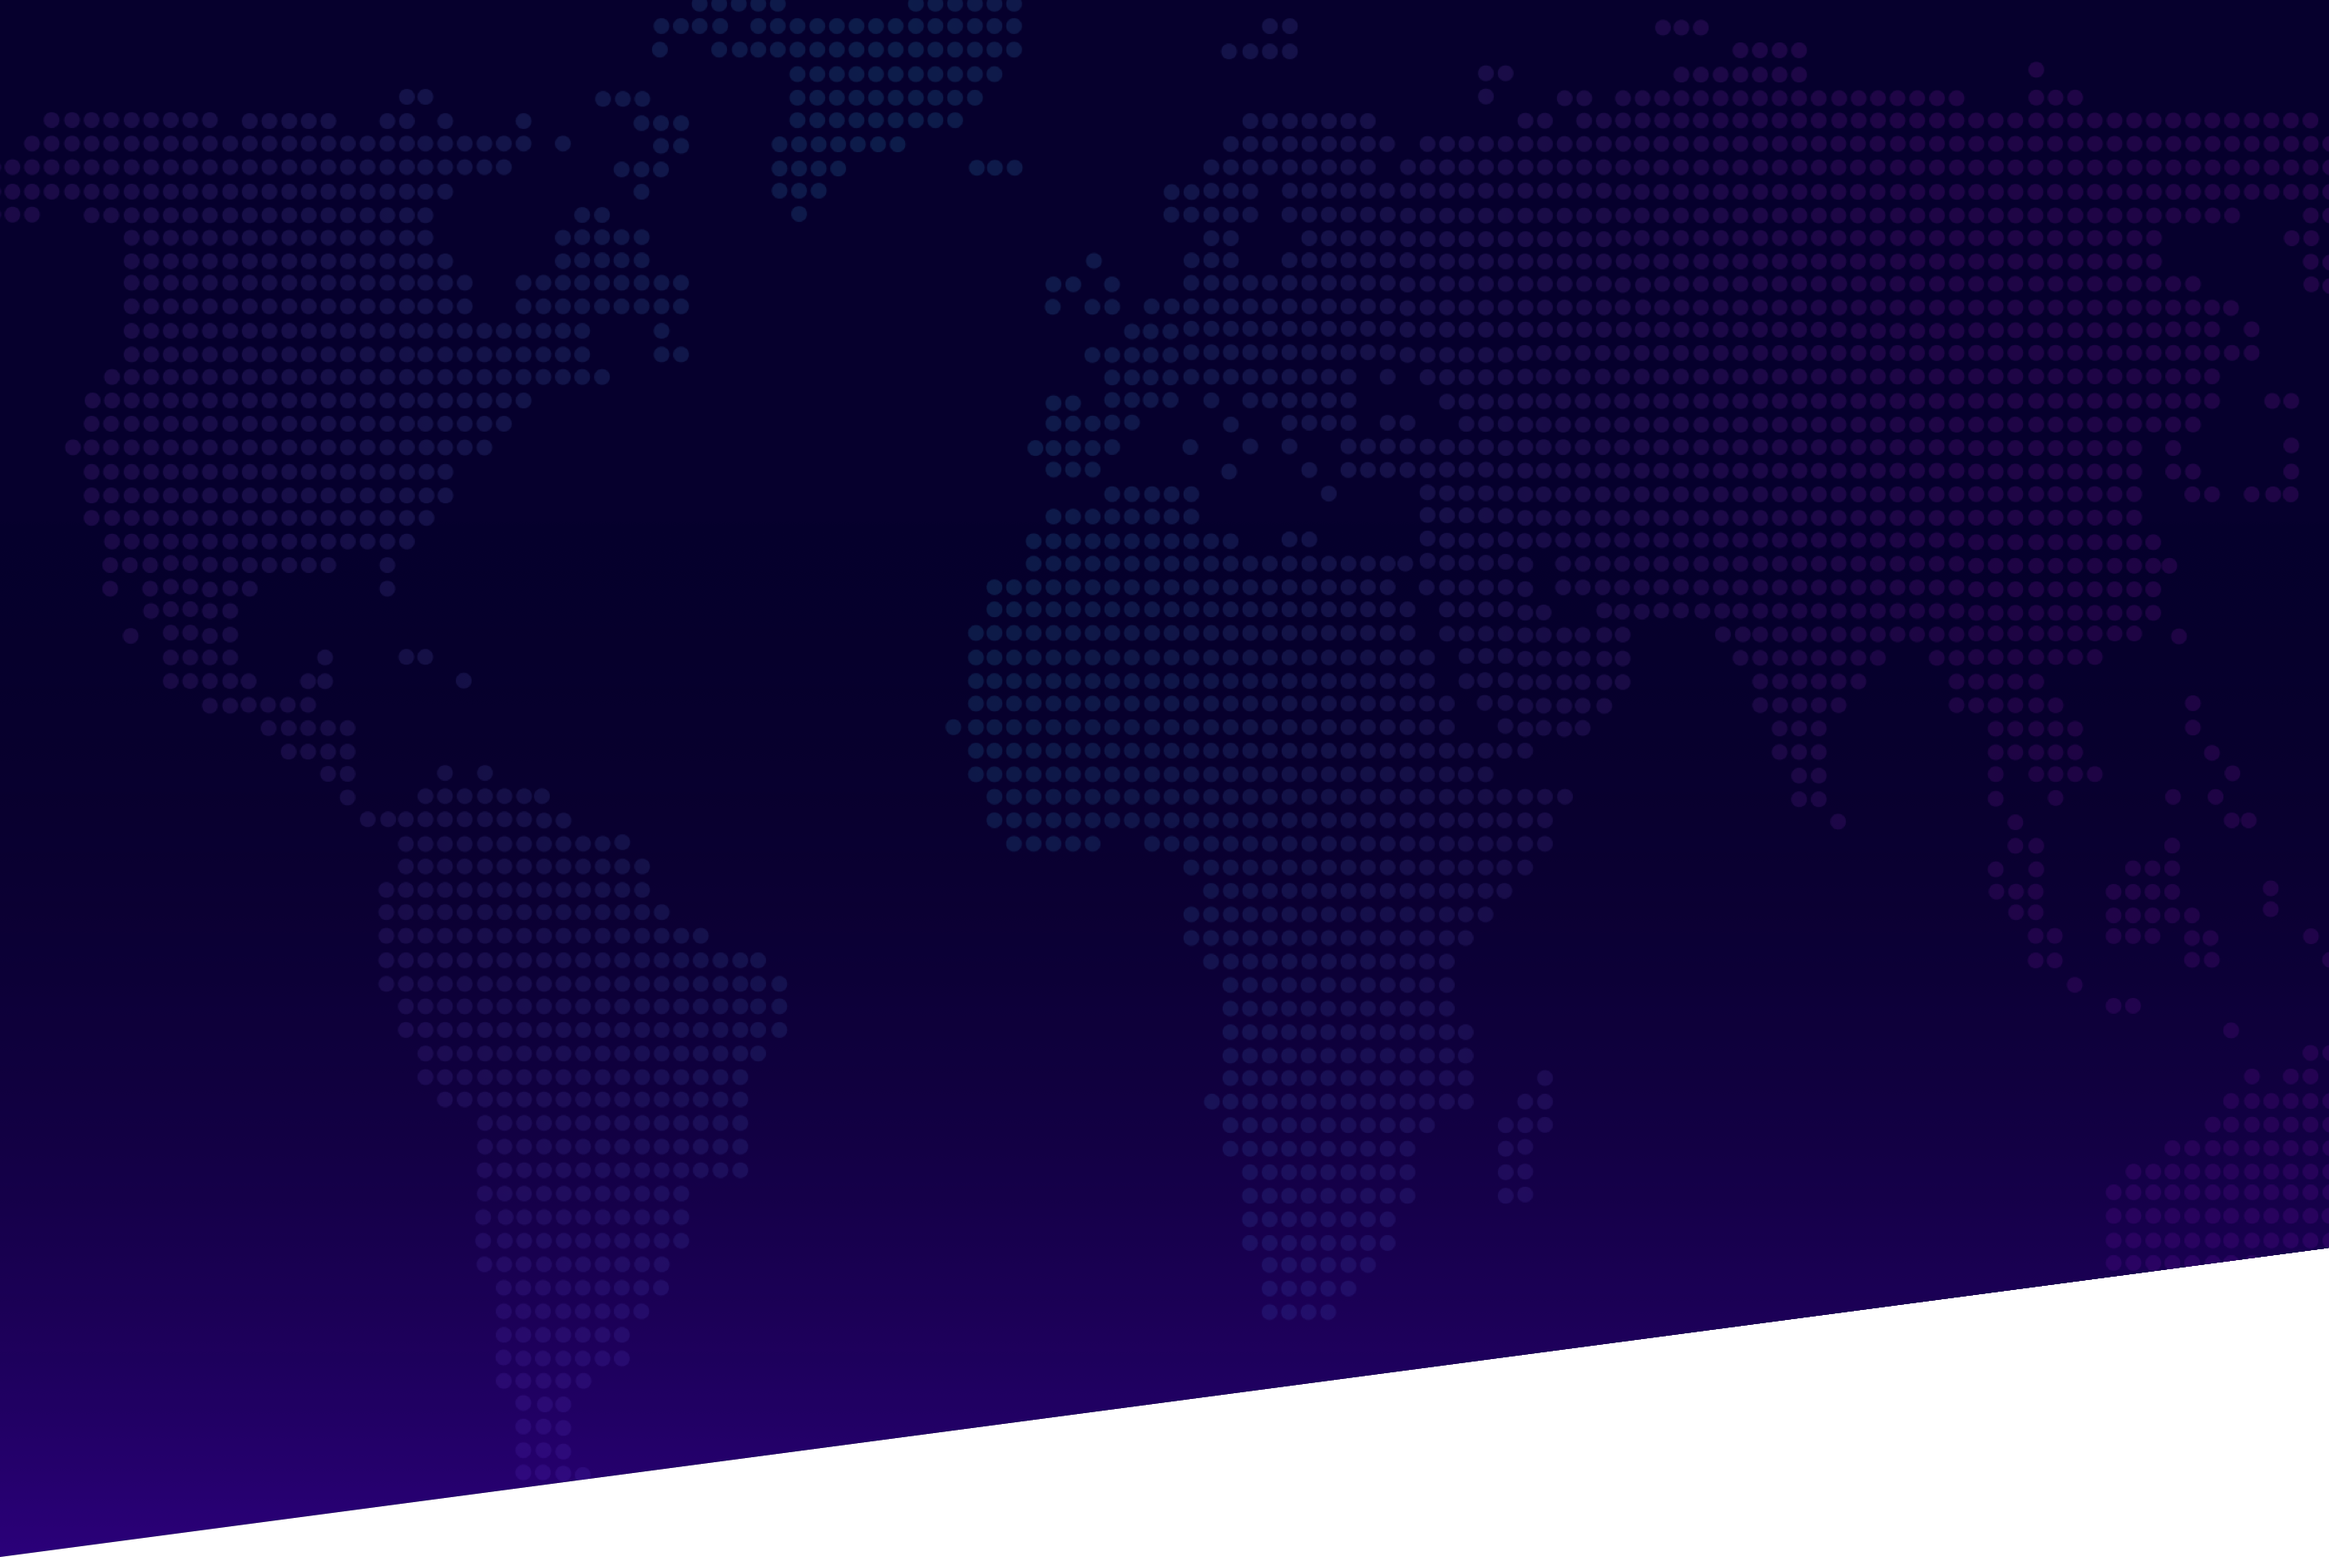
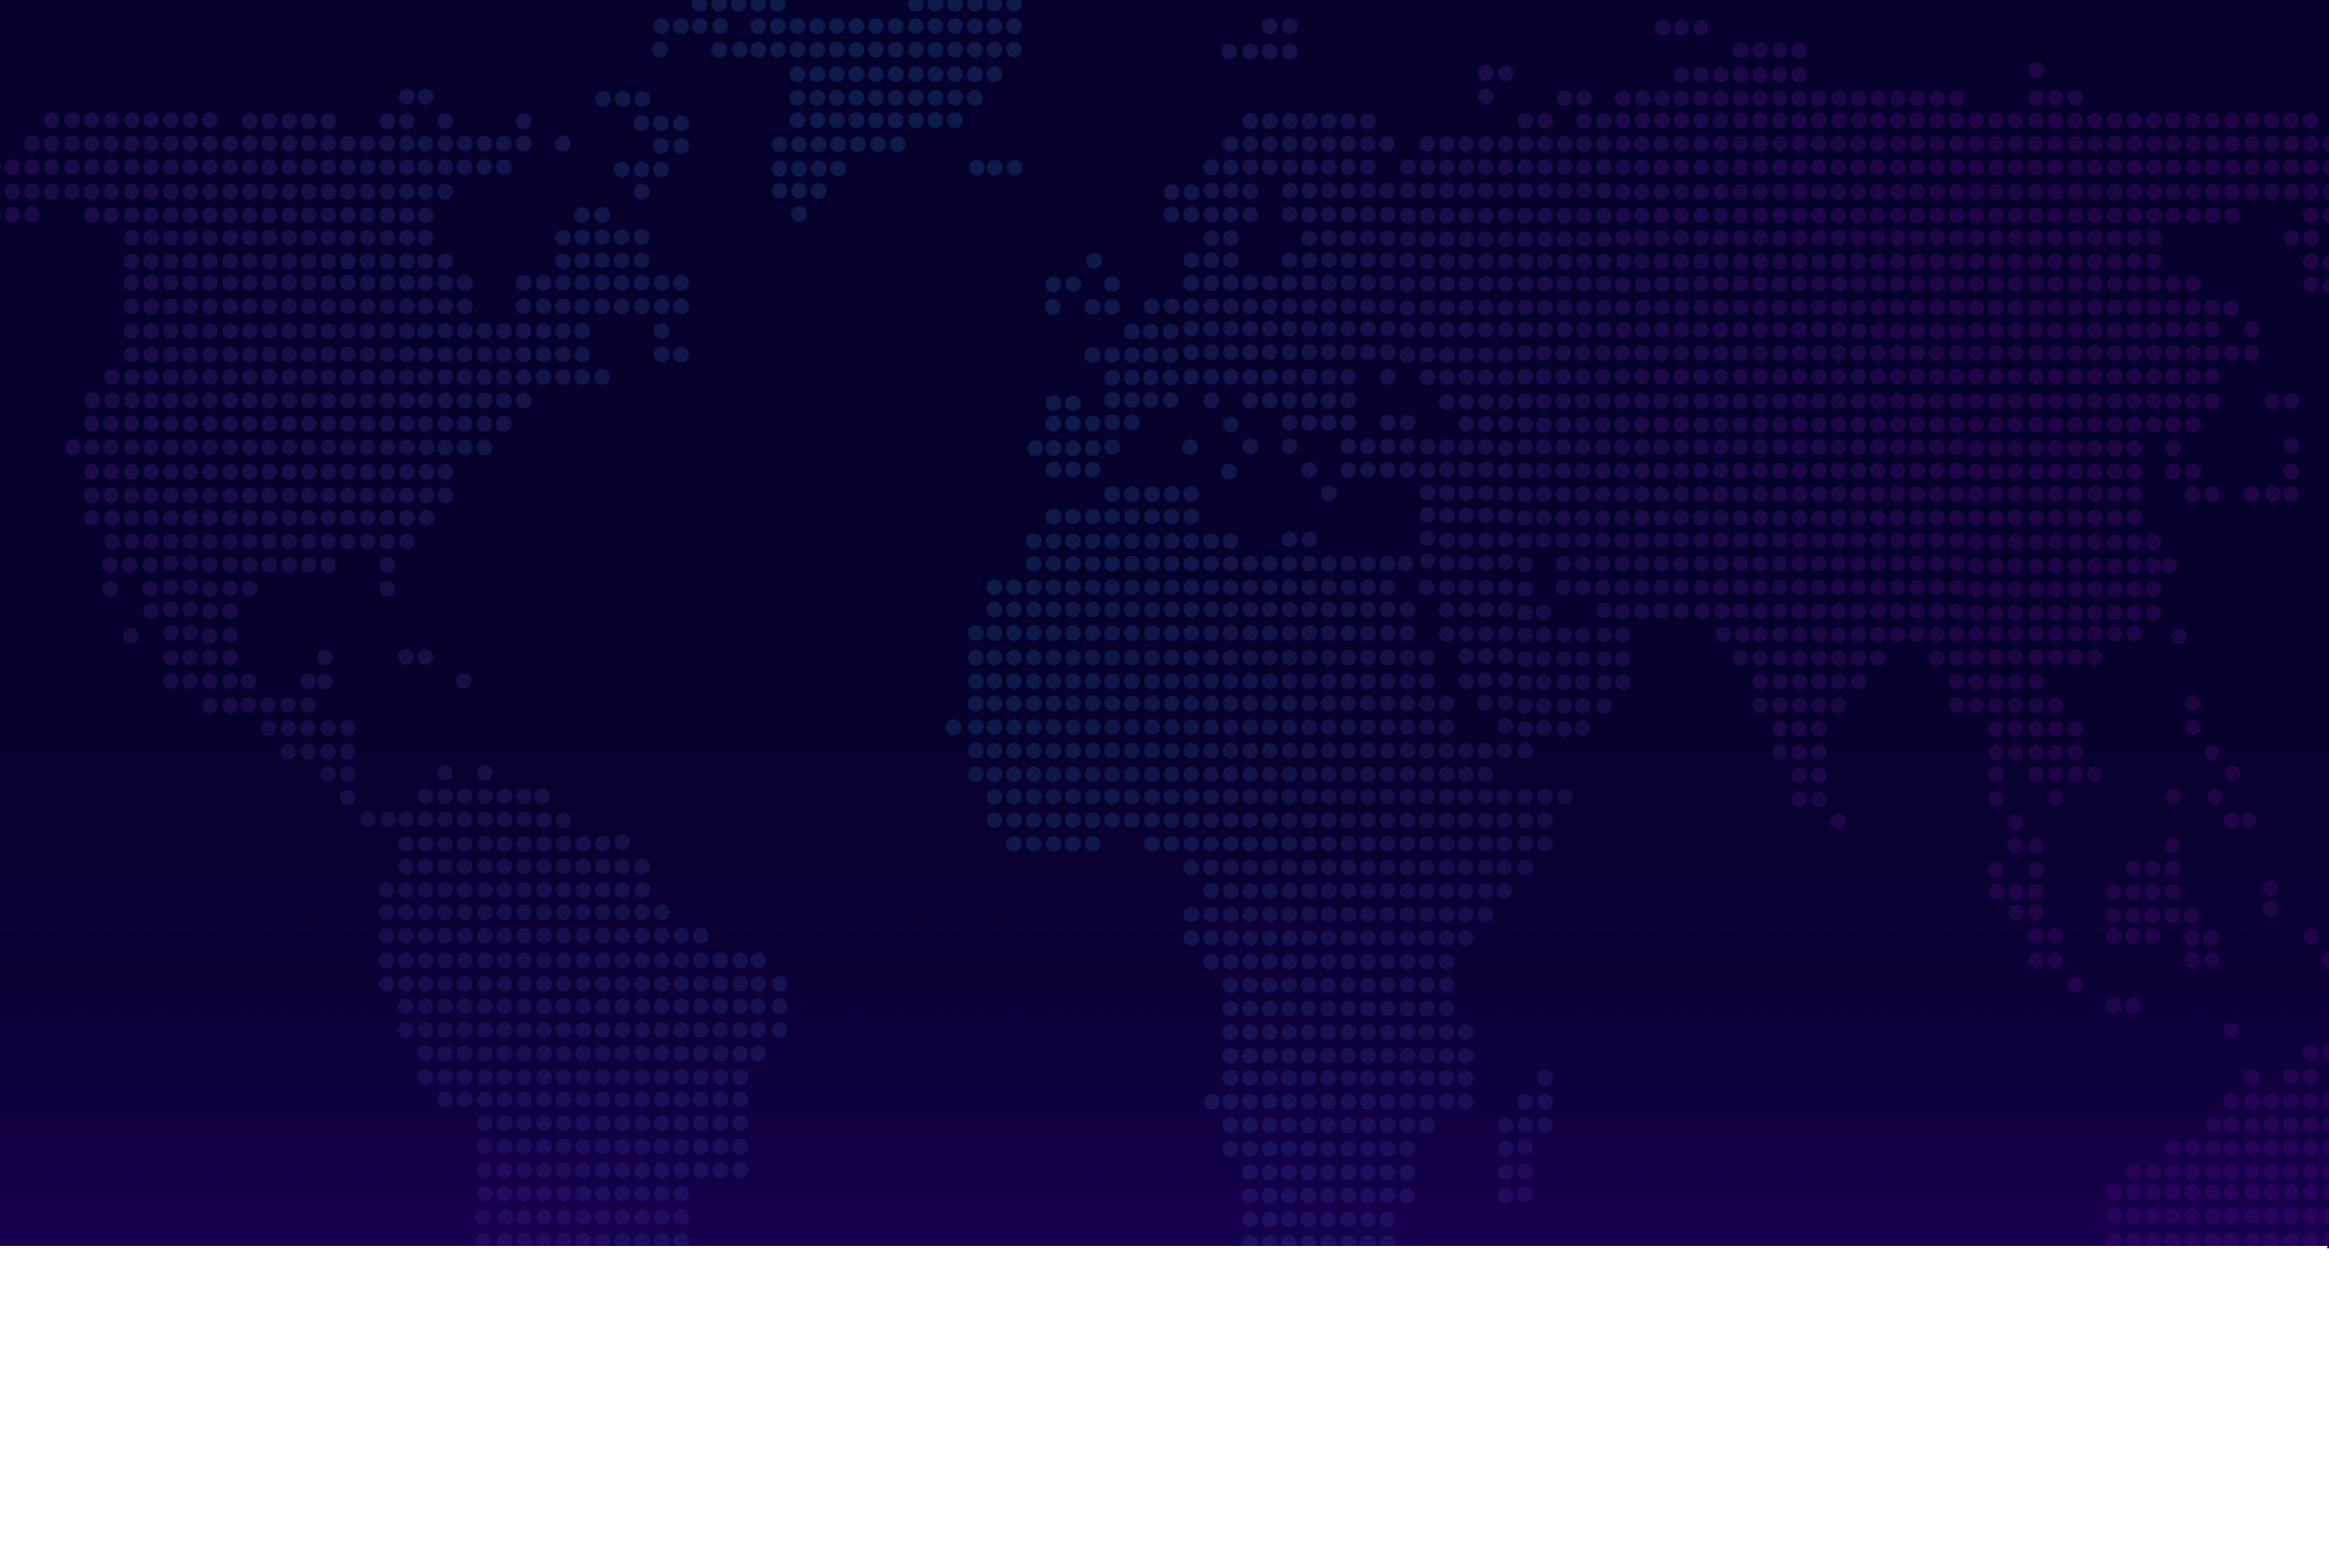
:lipstick:  Fixed quick actions on homepage

Changed region(s): [[0.0, 0.7746, 0.9943, 1.0]]

diff --git a/src/components/Hero.tsx b/src/components/Hero.tsx
@@ -1,13 +1,12 @@
 import React from "react"
-import styled, { ThemeProvider } from "styled-components"
-import HeroBg from "../images/Hero.png"
-import { MuiThemeProvider, Typography } from "@material-ui/core"
+import styled from "styled-components"
+import HeroBg from "../images/Hero2.png"
+import { Box, Typography } from "@material-ui/core"
 import ActionButton from "./Button"
 import { TechStackCard } from "./Card"
 import Grid from "@material-ui/core/Grid/Grid"
 import PowerSettingsNewIcon from "@material-ui/icons/PowerSettingsNew"
-import { VerticalSpacer } from "./Spacer"
-import { textThemeDark } from "../../plugins/custom-mui-theme/theme"
+import { AutoGrowSpacer, VerticalSpacer } from "./Spacer"
 import angular from "../images/fe/angular.svg"
 import gatsby from "../images/fe/gatsby.svg"
 import hugo from "../images/fe/hugo.svg"
@@ -24,6 +23,8 @@ import mongo from "../images/catalog/mongo.svg"
 import mysql from "../images/catalog/mysql.svg"
 import postgresql from "../images/catalog/postgresql.svg"
 import redis from "../images/catalog/redis.svg"
+import GitHubIcon from "@material-ui/icons/GitHub"
+import LinkRoundedIcon from "@material-ui/icons/LinkRounded"
 
 const StyledDiv = styled.div`
   width: 100%;
@@ -54,6 +55,12 @@ const StyledDiv = styled.div`
 
   .feature-container .feature-suggestion-container {
     margin: 20px;
+  }
+
+  .icons {
+    width: 30px;
+    height: 30px;
+    margin-right:16px
   }
 `
 
@@ -113,14 +120,11 @@ export default () => {
         />
       </Grid>
 
-      <Grid
-        container
-        direction="row"
-        justify="center"
-        alignItems="center"
-        className="feature-container"
-      >
-        <div className="feature-suggestion-container">
+      <VerticalSpacer size={20} />
+
+      <Grid container direction="row" justify="center" alignItems="flex-start">
+        {" "}
+        <Grid item>
           <Typography variant="h6" color="textPrimary">
             Deploy an Existing Project with Git
           </Typography>
@@ -135,8 +139,21 @@ export default () => {
               <b>import url.</b>
             </a>
           </Typography>
-        </div>
-        <div className="feature-suggestion-container">
+          <VerticalSpacer size={8} />
+
+          <a href="https://docs.kintohub.com/repository/github-apps">
+            <GitHubIcon className="icons" color="secondary" />
+          </a>
+
+          <a
+            className="import"
+            href="https://docs.kintohub.com/repository/import%20url"
+          >
+            <LinkRoundedIcon className="icons" color="secondary" />
+          </a>
+        </Grid>
+        <AutoGrowSpacer size={0.15} />
+        <Grid item>
           <Typography variant="h6" color="textPrimary">
             Connect Your Custom Domains
           </Typography>
@@ -145,11 +162,12 @@ export default () => {
           </Typography>
           <Typography color="textPrimary">
             <a href="https://docs.kintohub.com/anatomy/domains">
-              <b>Learn more →</b>{" "}
+              <b>Learn more →</b>
             </a>
           </Typography>
-        </div>
+        </Grid>
       </Grid>
+      <VerticalSpacer size={82} />
     </StyledDiv>
   )
 }

diff --git a/src/components/Spacer.tsx b/src/components/Spacer.tsx
@@ -1,16 +1,21 @@
-import styled from 'styled-components';
+import styled from "styled-components"
 
 interface SpacerProps {
-  size: number;
+  size: number
 }
 
 export const VerticalSpacer = styled.div<SpacerProps>`
-  height: ${(props) => props.size}px;
-`;
+  height: ${props => props.size}px;
+`
 export const AutoExpandSpacer = styled.div`
   display: flex;
   flex-grow: 1;
-`;
+`
+
+export const AutoGrowSpacer = styled.div<SpacerProps>`
+  display: flex;
+  flex-grow: ${props => props.size};
+`
 export const HorizontalSpacer = styled.div<SpacerProps>`
-  width: ${(props) => props.size}px;
-`;
+  width: ${props => props.size}px;
+`
